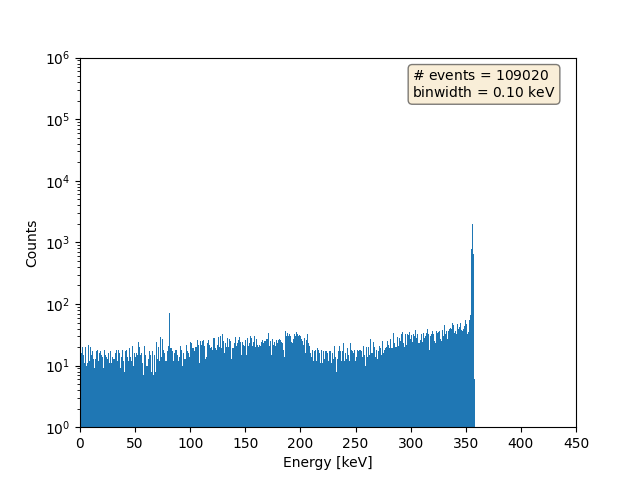
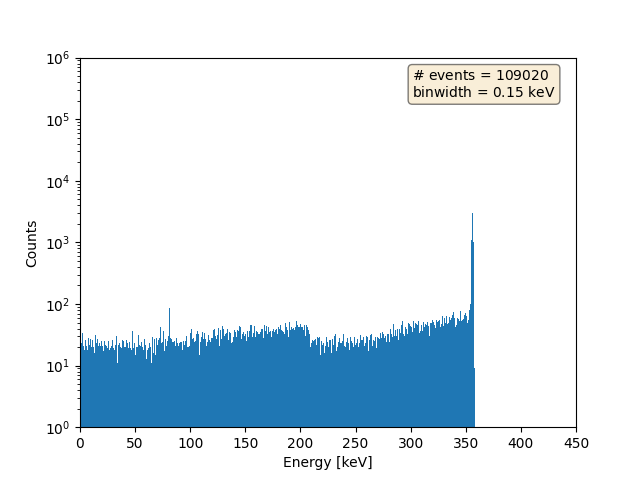
update

Changed region(s): [[0.125, 0.6562, 0.75, 0.7812]]

diff --git a/Ba133_analysis/simulations/IC-legend/macro/ba_top/PostProc/postproc_FCCD.py b/Ba133_analysis/simulations/IC-legend/macro/ba_top/PostProc/postproc_FCCD.py
@@ -1,0 +1,57 @@
+import sys, h5py
+import pandas as pd
+import numpy as np
+
+# Modify this value for different energy resolution
+pctResAt1MeV = 0.15 #0.15 #5#;
+
+
+hdf5_path = "/lfs/l1/legend/users/aalexander/hdf5_output/"
+
+if(len(sys.argv) != 2):
+    print('Usage: postprochdf5.py [filename.hdf5]')
+    sys.exit()
+
+# have to open the input file with h5py (g4 doesn't write pandas-ready hdf5)
+g4sfile = h5py.File(hdf5_path+sys.argv[1], 'r')
+g4sntuple = g4sfile['default_ntuples']['g4sntuple']
+print(g4sntuple)
+
+g4sdf = pd.DataFrame(np.array(g4sntuple), columns=['event'])
+print(g4sdf)
+# # build a pandas DataFrame from the hdf5 datasets we will use
+g4sdf = pd.DataFrame(np.array(g4sntuple['event']['pages']), columns=['event'])
+g4sdf = g4sdf.join(pd.DataFrame(np.array(g4sntuple['step']['pages']), columns=['step']),lsuffix = '_caller', rsuffix = '_other')
+g4sdf = g4sdf.join(pd.DataFrame(np.array(g4sntuple['Edep']['pages']), columns=['Edep']),lsuffix = '_caller', rsuffix = '_other')
+g4sdf = g4sdf.join(pd.DataFrame(np.array(g4sntuple['volID']['pages']),columns=['volID']), lsuffix = '_caller', rsuffix = '_other')
+g4sdf = g4sdf.join(pd.DataFrame(np.array(g4sntuple['iRep']['pages']),columns=['iRep']), lsuffix = '_caller', rsuffix = '_other')
+g4sdf = g4sdf.join(pd.DataFrame(np.array(g4sntuple['x']['pages']),columns=['x']), lsuffix = '_caller', rsuffix = '_other')
+g4sdf = g4sdf.join(pd.DataFrame(np.array(g4sntuple['y']['pages']),columns=['y']), lsuffix = '_caller', rsuffix = '_other')
+g4sdf = g4sdf.join(pd.DataFrame(np.array(g4sntuple['z']['pages']),columns=['z']), lsuffix = '_caller', rsuffix = '_other')
+print(g4sdf)
+
+# apply E cut / detID cut and sum Edeps for each event using loc, groupby, and sum
+# write directly into output dataframe
+detector_hits = g4sdf.loc[(g4sdf.Edep>0)&(g4sdf.volID==1)]
+print(detector_hits)
+print(detector_hits.size)
+
+#apply FCCD cuts
+top_width = 75.5 #mm - these come from detector.xml file
+bottom_width = 79.8 #mm
+FCCD_list = [0.25, 0.5, 0.75, 1.0, 1.25, 1.5] #mm
+for FCCD in FCCD_list:
+    AV_radius = top_width/2 - FCCD
+    detector_hits_FCCD = detector_hits.loc[((g4sdf.x)**2 + (g4sdf.y)**2 < AV_radius**2)]
+    print(detector_hits_FCCD)
+    print(detector_hits_FCCD.size)
+
+    procdf = pd.DataFrame(detector_hits_FCCD.groupby(['event','volID','iRep'], as_index=False)['Edep'].sum())
+    procdf = procdf.rename(columns={'iRep':'detID', 'Edep':'energy'})
+
+    # apply energy resolution function
+    procdf['energy'] = procdf['energy'] + np.sqrt(procdf['energy'])*pctResAt1MeV/100.*np.random.randn(len(procdf['energy']))
+    print(procdf)
+    #write to output file
+    procdf.to_hdf(hdf5_path+'processed/processed_FCCD'+str(FCCD)+'mm_'+sys.argv[1], key='procdf', mode='w')
+

diff --git a/Ba133_analysis/simulations/IC-legend/macro/ba_top/PostProc/drawPostProcessed_FCCD.py b/Ba133_analysis/simulations/IC-legend/macro/ba_top/PostProc/drawPostProcessed_FCCD.py
@@ -1,0 +1,60 @@
+# draw energy histograms from each detector
+
+import sys
+import pandas as pd
+import numpy as np
+import matplotlib.pyplot as plt
+#plt.style.use("mplstyle.txt")
+
+
+def main(): 
+
+    hdf5_path = "/lfs/l1/legend/users/aalexander/hdf5_output/processed/"
+
+    # if(len(sys.argv) != 2):
+    #     print('Usage: drawPostProcessedHdf5.py [detector_IC160A_ba_top_coll_01]')
+    #     sys.exit()
+
+    # MC_file = sys.argv[1]
+
+    MC_file = 'detector_IC160A_ba_top_coll_01'
+
+    FCCD_list = [0.25, 0.5, 0.75, 1.0, 1.25, 1.5] #mm
+    #FCCD_list = [ 1.5] #mm, FCCDS2
+
+    fig, ax = plt.subplots()
+    binwidth = 0.15 #5 #0.1 kev = rough min resolution
+
+    FCCD = "none"
+    df =  pd.read_hdf(hdf5_path+"processed_"+MC_file+'.hdf5', key="procdf")
+    energies = df['energy']
+    energies = energies*1000
+    counts, bins, bars = plt.hist(energies, bins = np.arange(min(energies), max(energies) + binwidth, binwidth), label = 'FCCD: '+FCCD, histtype = 'step')
+    no_events = energies.size #=sum(counts)
+    print("No. events: ", no_events)
+
+    for FCCD in FCCD_list:
+        df =  pd.read_hdf(hdf5_path+"processed_FCCD"+str(FCCD)+"mm_"+MC_file+'.hdf5', key="procdf")
+        energies = df['energy']
+        energies = energies*1000
+        counts, bins, bars = plt.hist(energies, bins = np.arange(min(energies), max(energies) + binwidth, binwidth), label = 'FCCD: '+str(FCCD)+' mm', histtype = 'step')
+        no_events = energies.size #=sum(counts)
+        print("No. events: ", no_events) 
+
+    plt.xlabel("Energy [keV]")
+    plt.ylabel("Counts")
+    plt.xlim(0, 450)
+    plt.yscale("log")
+    plt.ylim(1,10**4)  
+    props = dict(boxstyle='round', facecolor='wheat', alpha=0.5)
+    info_str = r'binwidth = $%.2f$ keV' % (binwidth)
+    #info_str = '\n'.join((r'# events = $%.0f$' % (no_events), r'binwidth = $%.2f$ keV' % (binwidth)))
+    ax.text(0.67, 0.97, info_str, transform=ax.transAxes, fontsize=10,verticalalignment='top', bbox=props)
+    plt.legend(loc='upper left')
+
+    plt.savefig("plots/FCCDs_"+MC_file+'.png')
+
+
+
+if __name__ == "__main__":
+    main()

diff --git a/Ba133_analysis/simulations/IC-legend/macro/ba_top/PostProc/drawPostProcessedHdf5.py b/Ba133_analysis/simulations/IC-legend/macro/ba_top/PostProc/drawPostProcessedHdf5.py
@@ -17,6 +17,7 @@ def main():
 
     filename = sys.argv[1]
     plotname = filename.strip('.hdf5')
+    plotname = filename.strip('processed_')
 
     df =  pd.read_hdf(hdf5_path+filename, key="procdf")
 
@@ -35,7 +36,7 @@ def main():
     #plt.show()
 
 
-    binwidth = 0.1 #5 #0.1 kev = rough min resolution
+    binwidth = 0.15 #5 #0.1 kev = rough min resolution
     energies = df['energy']
     energies = energies*1000
 
@@ -50,7 +51,6 @@ def main():
     plt.ylim(1,10**6)  
     props = dict(boxstyle='round', facecolor='wheat', alpha=0.5)
     info_str = '\n'.join((r'# events = $%.0f$' % (no_events), r'binwidth = $%.2f$ keV' % (binwidth)))
-    #info_str = r'# events = $%.0f$' % (no_events)
     ax.text(0.67, 0.97, info_str, transform=ax.transAxes, fontsize=10,verticalalignment='top', bbox=props)
     plt.savefig("plots/"+plotname+'.png')
 

diff --git a/Ba133_analysis/simulations/IC-legend/macro/ba_top/PostProc/postprochdf5.py b/Ba133_analysis/simulations/IC-legend/macro/ba_top/PostProc/postprochdf5.py
@@ -3,7 +3,7 @@ import pandas as pd
 import numpy as np
 
 # Modify this value for different energy resolution
-pctResAt1MeV = 0.1 #0.15 #5#;
+pctResAt1MeV = 0.15 #0.15 #5#;
 
 
 hdf5_path = "/lfs/l1/legend/users/aalexander/hdf5_output/"

diff --git a/Ba133_analysis/data/Ba133_Calibration.py b/Ba133_analysis/data/Ba133_Calibration.py
@@ -20,6 +20,7 @@ def main():
     #print date and time for log:
     now = datetime.now()
     dt_string = now.strftime("%d/%m/%Y %H:%M:%S") # dd/mm/YY H:M:S
+    print("")
     print("date and time =", dt_string)	
     print("")
 
